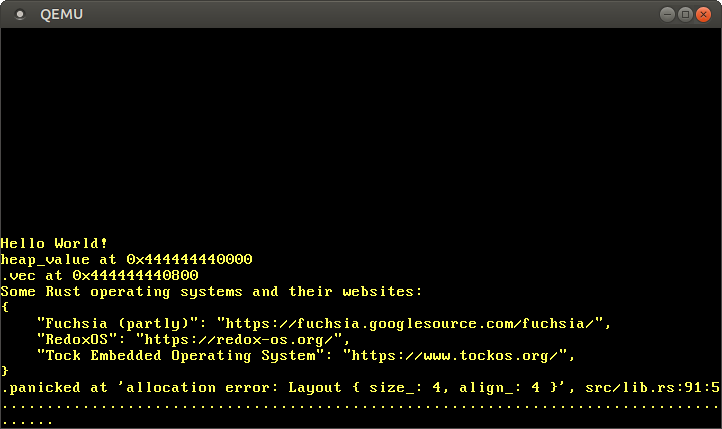
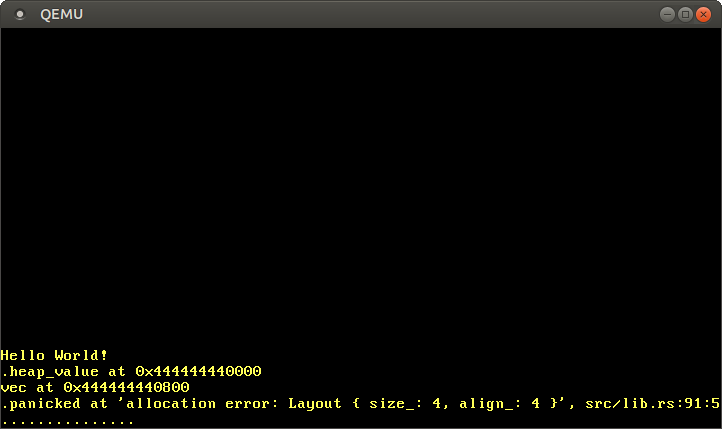
Remove BTreeMap from example code, list possible types instead

diff --git a/blog/content/second-edition/posts/10-heap-allocation/index.md b/blog/content/second-edition/posts/10-heap-allocation/index.md
@@ -664,13 +664,6 @@ fn kernel_main(boot_info: &'static BootInfo) -> ! {
     }
     println!("vec at {:p}", vec.as_slice());
 
-    // create a map that maps keys to values
-    let mut rust_os = BTreeMap::new();
-    rust_os.insert("RedoxOS", "https://redox-os.org/");
-    rust_os.insert("Tock Embedded Operating System", "https://www.tockos.org/");
-    rust_os.insert("Fuchsia (partly)", "https://fuchsia.googlesource.com/fuchsia/");
-    println!("Some Rust operating systems and their websites:\n{:#?}", rust_os);
-
     // try to create one billion boxes
     for _ in 0..1_000_000_000 {
         let _ = Box::new(1);
@@ -682,17 +675,30 @@ fn kernel_main(boot_info: &'static BootInfo) -> ! {
 }
 ```
 
-When we run it now, we see the following:
+This code example showcases a few collection types of the `alloc` crate. Of course, there are many more allocation and collection types in that crate that we can now all use in our kernel, including:
+
+- the reference counted pointers [`Rc`] and [`Arc`]
+- the owned string type [`String`] and the [`format!`] macro
+- [`LinkedList`]
+- the growable ring buffer [`VecDeque`]
+- [`BinaryHeap`]
+- [`BTreeMap`] and [`BTreeSet`]
+
+[`Rc`]: https://doc.rust-lang.org/alloc/rc/
+[`Arc`]: https://doc.rust-lang.org/alloc/arc/
+[`String`]: https://doc.rust-lang.org/collections/string/struct.String.html
+[`format!`]: https://doc.rust-lang.org/alloc/macro.format.html
+[`LinkedList`]: https://doc.rust-lang.org/collections/linked_list/struct.LinkedList.html
+[`VecDeque`]: https://doc.rust-lang.org/collections/vec_deque/struct.VecDeque.html
+[`BinaryHeap`]: https://doc.rust-lang.org/collections/binary_heap/struct.BinaryHeap.html
+[`BTreeMap`]: https://doc.rust-lang.org/collections/btree_map/struct.BTreeMap.html
+[`BTreeSet`]: https://doc.rust-lang.org/collections/btree_set/struct.BTreeSet.html
+
+When we run our project now, we see the following:
 
 ![QEMU printing `
 heap_value at 0x444444440000
 vec at 0x4444444408000
-Some Rust operating systems and their websites:
-{
-    "Fuchsia (partly)": "https://fuchsia.googlesource.com/fuchsia/",
-    "RedoxOS": "https://redox-os.org/",
-    "Tock Embedded Operating System", "https://www.tockos.org/",
-}
 panicked at 'allocation error: Layout { size_: 4, align_: 4 }', src/lib.rs:91:5
 ](qemu-bump-allocator.png)
 
@@ -700,7 +706,7 @@ As expected, we see that the `Box` and `Vec` values live on the heap, as indicat
 
 [reallocations]: https://doc.rust-lang.org/alloc/vec/struct.Vec.html#capacity-and-reallocation
 
-The `BTreeMap` type works as expected. Our loop that tries to create one billion boxes causes a panic, however. The reason is that the bump allocator never reuses freed memory, so that for each created `Box` a few bytes are leaked. This makes the bump allocator unsuitable for many applications in practice, apart from some very specific use cases.
+While the basic `Box` and `Vec` examples work as expected, our loop that tries to create one billion boxes causes a panic. The reason is that the bump allocator never reuses freed memory, so that for each created `Box` a few bytes are leaked. This makes the bump allocator unsuitable for many applications in practice, apart from some very specific use cases.
 
 #### When to use a Bump Allocator
 
